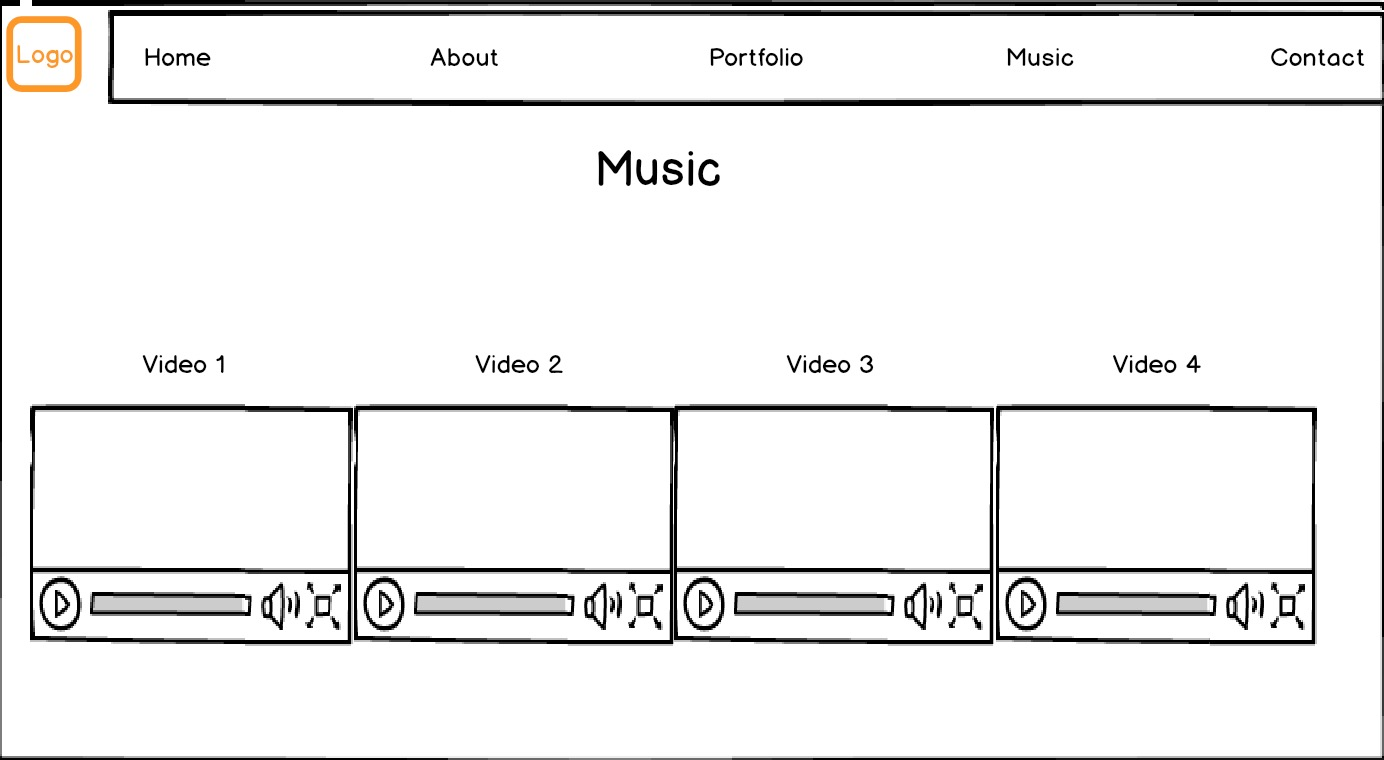
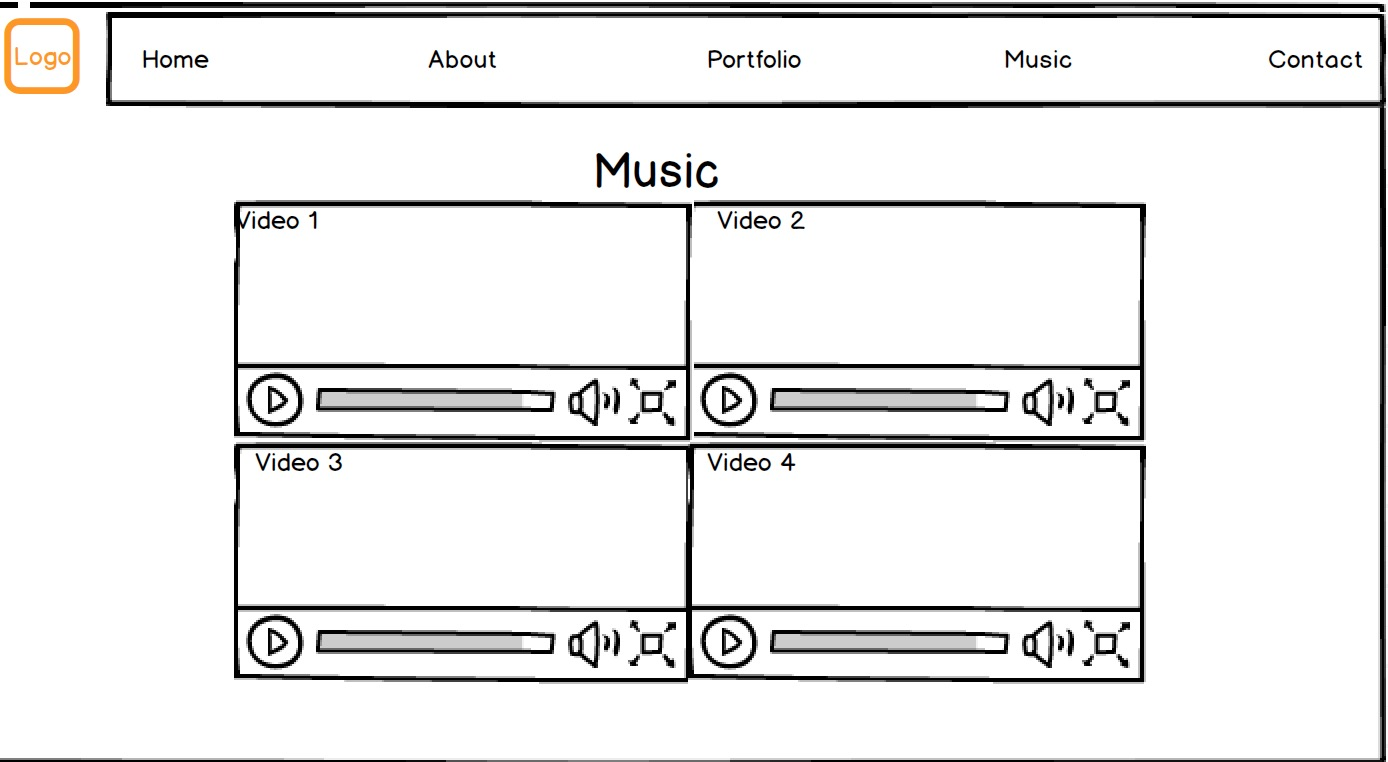
files redone

diff --git a/src/index.html b/src/index.html
@@ -8,10 +8,11 @@
 <link href="css/style.css" rel="stylesheet" type="text/css" media="screen" />
 <link rel="stylesheet" href="https://cdnjs.cloudflare.com/ajax/libs/font-awesome/4.7.0/css/font-awesome.min.css">
 <script src="https://ajax.aspnetcdn.com/ajax/jQuery/jquery-3.3.1.min.js"></script>
-<script src="particles.js"></script>
+<script src="JS/particles.js"></script>
 </head>
 
 <body>
+    
     <!-- Start of Hamburger -->
     <nav role="navigation">
             <div id="menuToggle">
@@ -30,11 +31,11 @@
           </nav>
     <!-- End of Hamburger -->
     
-    <div id= "home" class="container">
+    <!-- Home page -->
+    <div id= "home" class="home">
         <div id="particles-js">
 	     <ul id="navbar">
-            <li><img id="logo" src="./logo3.png" alt="Scott O'Dea Logo"/></li>
-            <!-- <img class= "hamburger" src="https://d30y9cdsu7xlg0.cloudfront.net/png/204479-200.png" alt="dropdown-menu"> -->
+            <li><img id="logo" src="PICS/logo.png" alt="Scott O'Dea Logo"/></li>
             <li><a href="#home">Home</a></li>
             <li><a href="#about">About</a></li>
             <li><a href="#portfolio">Portfolio</a></li>
@@ -43,10 +44,10 @@
         </ul>
     </div>
     </div>
-
+   <!-- End Home Page -->
+   <!-- About Page -->
     <div id="about" class="about">
-        <span></span>
-        <h1>About</h1>
+        <h1>About Me</h1>
         <div class="info">
         <img class= "pic" src="https://scontent.fsyd3-1.fna.fbcdn.net/v/t1.15752-9/42090786_1758193267582765_5591682493200728064_n.jpg?_nc_cat=0&oh=f6906fd4b0e449544971920006d8a612&oe=5C2CD21A" alt="Me">  
         <h2>Hi, my name is Scott O'Dea. I'm a 25 year-old aspiring developer and musician,
@@ -55,89 +56,76 @@
         </h2>
         </div>
     </div>
-
-    
+    <!-- End About Page -->
+    <!-- Portfolio Page -->
     <div id="portfolio" class="portfolio">
         <h1>Portfolio</h1>
                     <div class="port-flex">
                     <div class="port-display">
-                    <img src="hangman.jpg" alt="Hangman">
+                    <a href="https://github.com/scottodea/hangman" target="_blank"><img src="PICS/hangman.jpg" alt="Hangman"></a>
                     <h2>Hangman</h2>
                   
                     </div>
 
                     <div class="port-display">
-                    <img src="leapyear.jpg" alt="Leap Year Calculator">
+                    <a href="https://github.com/scottodea/Leap-Year-calculator" target="_blank"> <img src="PICS/leapyear.jpg" alt="Leap Year Calculator"></a>
                     <h2>Leap-Year Calculator</h2>
               
                     </div>
 
                     <div class="port-display">
-                    <img src="birthday.jpg" alt="Birthday App">
+                    <a href="https://github.com/scottodea/Birthday" target="_blank"><img src="PICS/birthday.jpg" alt="Birthday App"></a>
                     <h2>Birthday</h2>
                     
                     </div>
 
                     <div class="port-display">
-                    <img src="https://i.imgur.com/lFLarFq.jpg" alt="Guessing Game">
+                    <a href="https://github.com/scottodea/guessing-game" target="_blank"><img src="PICS/guessinggame.jpg" alt="Guessing Game"></a>
                     <h2>Instrument Game</h2>
                     </div>
                     </div>
 
-        <h1 class= "skills">Skills</h1>
+        <h2 class= "skills">Skills</h2>
         <div class="code-logos">
-        <img src="https://upload.wikimedia.org/wikipedia/commons/thumb/7/73/Ruby_logo.svg/2000px-Ruby_logo.svg.png" alt="Ruby">
-        <img id= "fatten" src="https://cdn0.iconfinder.com/data/icons/HTML5/512/HTML_Logo.png" alt="HTML">
-        <img src="https://upload.wikimedia.org/wikipedia/commons/thumb/d/d5/CSS3_logo_and_wordmark.svg/726px-CSS3_logo_and_wordmark.svg.png" alt="CSS">
-        <img src="https://i.imgur.com/CGnymwi.png" alt="Javascript">
+        <img src="PICS/Ruby.png" alt="Ruby">
+        <img id= "fatten" src="PICS/HTML.png" alt="HTML">
+        <img src="PICS/CSS.png" alt="CSS">
+        <img src="PICS/Javascript.png" alt="Javascript">
         </div>
       </div>   
-
-    <!-- <a ></a>   -->
+    <!-- End Portfolio Page -->
+    <!-- Music Page -->
     <div id="music" class="music"> 
             <span></span>
-            <h1>Music</h1> 
-            <h2>Pure Imagination</h2>
+            <h1>Music</h1>
             <div class="vids">
+            <iframe src="https://www.youtube.com/embed/VpmyQNxi2HQ" frameborder="0" allow="autoplay; encrypted-media" allowfullscreen></iframe>
             <iframe src="https://www.youtube.com/embed/H4zWV4xiCnM" frameborder="0" allow="autoplay; encrypted-media" allowfullscreen></iframe>
-            <iframe src="https://www.youtube.com/embed/to22meUpSEI" frameborder="0" allow="autoplay; encrypted-media" allowfullscreen></iframe>
-            <iframe src="https://www.youtube.com/embed/le0BLAEO93g" frameborder="0" allow="autoplay; encrypted-media" allowfullscreen></iframe>
+            <iframe src="https://www.youtube.com/embed/yLS0MaPmGig" frameborder="0" allow="autoplay; encrypted-media" allowfullscreen></iframe>
+            <iframe src="https://www.youtube.com/embed/wr4hUYTUy2s" frameborder="0" allow="autoplay; encrypted-media" allowfullscreen></iframe>
         </div>
     </div>
-
+    <!-- End Music Page -->
+    <!-- Contact Page -->
     <div id="contact" class="contact">
         <h1>Contact</h1>
         <br><br><br>
          <h2>Email: odeascott@gmail.com</h2>
         <div class="logos">
-        <a href="https://www.facebook.com/scott.odea" target= "_blank" ><i class="fa fa-facebook-square" style="font-size:60px;color:#4469B0"></i></a>
-        <a href="https://github.com/scottodea" target= "_blank"> <i class="fa fa-github-square" style="font-size:60px;color:black"></i></a>
-        <a href="https://www.linkedin.com/in/scott-o-dea-4ab587171/" target= "_blank"><i class="fa fa-linkedin-square" style="font-size:60px;color:#1178B3"></i></a> 
-        <i class="fa fa-youtube" style="font-size:60px;color:#FC0D1B" target=></i>
+        <a href="https://www.facebook.com/scott.odea" target= "_blank" ><i class="fa fa-facebook-square" style="font-size:150px;color:#4469B0"></i></a>
+        <a href="https://github.com/scottodea" target= "_blank"> <i class="fa fa-github-square" style="font-size:150px;color:black"></i></a>
+        <a href="https://www.linkedin.com/in/scott-o-dea-4ab587171/" target= "_blank"><i class="fa fa-linkedin-square" style="font-size:150px;color:#1178B3"></i></a> 
+        <a href="https://www.youtube.com/channel/UCG1pv7A4ABMh4ltvfPB3rIw" target="_blank"><i class="fa fa-youtube" style="font-size:150px;color:#FC0D1B" target=></i></a>
         </div>
     </div>
-    
+    <!-- End Contact Page -->
 
-
+    <!-- Footer -->
     <div class="footer">
         <p>Thanks for visiting!</p>
+        <br>
         <p> &copy Scott O'Dea</p>
     </div>
-<!-- Javascript -->
-<script>
-        window.onscroll = function() {myFunction()};
-        var navbar = document.getElementById("navbar");
-        var sticky = navbar.offsetTop;
-        function myFunction() {
-          if (window.pageYOffset >= 10)
-           {
-            navbar.classList.add("sticky")
-          } else {
-            navbar.classList.remove("sticky");
-          }
-        }
-</script>
-<script>  particlesJS.load('particles-js', 'https://api.myjson.com/bins/197pms', function() {
-    console.log('callback - particles.js config loaded');
-  });</script>
+  <!-- Javascript -->
+  <script src="JS/main.js"></script>
 </body>

diff --git a/src/css/style.css b/src/css/style.css
@@ -21,15 +21,23 @@ html {
 body h1 {
   text-align: center;
   margin: 0;
+  font-family:Arial, Helvetica, sans-serif;
   padding-top:85px;
-  color: #EA6341;
+  color: var(--orange);
   text-shadow: 1px 1px #be6d20;
   font-size: 50px; }
+  a {
+    text-decoration: none;
+    color: #232323;
+    transition: color 0.3s ease; }
+  
+  a:hover {
+    color: #EA6341; }
 
 #logo {
   max-width: 120px; }
 
-.container {
+.home {
   margin: 0;
   padding: 0;
   background-image: url(https://scontent.fsyd3-1.fna.fbcdn.net/v/t31.0-8/17635540_10155934729664046_880860063106615889_o.jpg?_nc_cat=0&oh=aa6e5ce20a42e5a8c2133c71cffd77cc&oe=5C20BF36);
@@ -38,7 +46,7 @@ body h1 {
   background-repeat: no-repeat;
   background-size: cover;
   height: 800px; }
-  .container ul {
+  .home ul {
     display: flex;
     justify-content: space-between;
     align-items: center;
@@ -102,10 +110,13 @@ body h1 {
   font-family: var(--font) 
   }
   .portfolio h1{
-    margin-bottom:80px;
+    margin-bottom:40px;
   }
-  .skills{ 
-    font-size: 34px
+  .skills{
+  padding-top:20px;
+  color: #EA6341;
+  font-size:34px;
+  margin-bottom:0;
   }
   .port-flex{
   display:flex;
@@ -124,6 +135,9 @@ body h1 {
 .port-display img{
   width:250px;
 }
+.port-display img:hover{
+opacity:0.8;
+}
 .code-logos{
   display: flex;
   flex-wrap: wrap;
@@ -132,12 +146,12 @@ body h1 {
 
 }
 .code-logos img{
-  width:100px;
-  height:100px;
+  width:80px;
+  height:80px;
   padding:40px;
 }
 #fatten{
-  width:130px
+  width:100px
 }
 
 .music {
@@ -145,14 +159,12 @@ body h1 {
   padding: 20px;
   background: #272727;
   box-shadow: 0px 0px 20px #1d1c1c; }
-  .music h2 {
-    color: #fff9f9;
-    font-size: 40px;
-    -webkit-text-stroke-width: 1px;
-    -webkit-text-stroke-color: #aa3ab4; }
+.music h1{
+  padding-bottom:40px;
+}
   .music iframe {
-    width: 30vw;
-    height: 30vh;
+    width: 40vw;
+    height: 35vh;
     min-width: 270px; }
   .music .vids {
     display: flex;
@@ -195,14 +207,6 @@ body h1 {
   box-shadow: 0px 0px 20px #1d1c1c;
   transition: all 1s ease;
   z-index: 3; }
-
-a {
-  text-decoration: none;
-  color: #232323;
-  transition: color 0.3s ease; }
-
-a:hover {
-  color: #EA6341; }
 
 #menuToggle {
   display: block;

diff --git a/src/JS/main.js b/src/JS/main.js
@@ -1,0 +1,14 @@
+window.onscroll = function() {myFunction()};
+        var navbar = document.getElementById("navbar");
+        var sticky = navbar.offsetTop;
+        function myFunction() {
+          if (window.pageYOffset >= 10)
+           {
+            navbar.classList.add("sticky")
+          } else {
+            navbar.classList.remove("sticky");
+          }
+        }
+particlesJS.load('particles-js', 'https://api.myjson.com/bins/197pms', function() {
+console.log('callback - particles.js config loaded');
+  });
